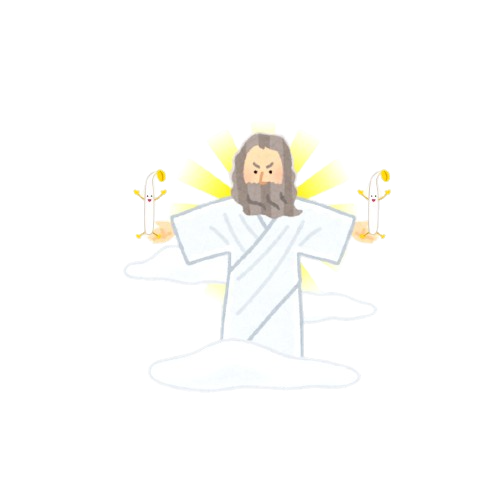
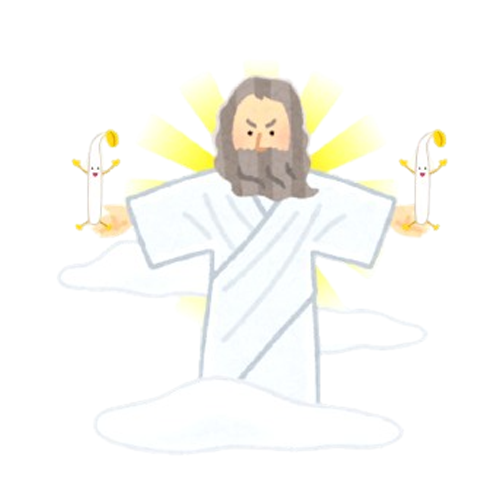
クイズページふざけた

Changed region(s): [[0.15, 0.12, 0.9, 0.81], [0.78, 0.24, 0.9, 0.36], [0.48, 0.72, 0.51, 0.78]]

diff --git a/quiz/qstart.html b/quiz/qstart.html
@@ -12,12 +12,16 @@
     <title>もやし王決定戦</title>
 </head>
 <body>
-    <div class="quiz start">
-        <h1 class="text1 mooutitle">もやし王決定戦</h1>
-        <form action="q1.php" method="post">
-            <input type="text" name="name" class="name" placeholder="名前を入力してね"><br>
-            <input type="submit" class="button" value="start">
-        </form>
-    </div>
+    <table class="quiz start">
+        <td style="width: 20%;"><img src="../img/もやしくん.gif" alt="もやっしー" style="width: 300px; height: 500px; object-fit: cover;"></td>
+        <td style="width: 60%;">
+            <h1 class="text1 mooutitle">もやし王決定戦</h1>
+            <form action="q1.php" method="post">
+                <input type="text" name="name" class="name" placeholder="名前を入力してね"><br>
+                <input type="submit" class="startbutton" value="START">
+            </form>
+        </td>
+        <td style="width: 20%;"><img src="../img/もやしくん.gif" alt="もやっしー" style="width: 300px; height: 500px; object-fit: cover;"></td>
+    </table>
 </body>
 </html>

diff --git a/css/quiz.css b/css/quiz.css
@@ -10,13 +10,21 @@ html{
     min-height: 100vh;
 }
 
+.moyassi-1{
+  position: relative;
+  margin-left: 10px;
+  margin-top: 10%;
+  /* width: 500px;
+  height: 500px; */
+}
+
 .quiz{
     text-align: center;
 }
 
 .start{
-    margin-top: 10%;
-    margin-bottom: 10%;
+    margin-top: 5%;
+    /* margin-bottom: 5%; */
 }
 
 .text1{
@@ -27,18 +35,35 @@ html{
 }
 
 .mooutitle{
+  margin-top: -20px;
   font-size: 70px;
   font-weight: bold;
 }
 
 .name{
-  width: 40%;
+  width: 60%;
   height: 50px;
   background-color: rgba(255, 255, 255, 50%);
   border-radius: 5px;
   padding-top: 3px;
   padding-bottom: 3px;
   font-size: 25px;
+}
+
+.startbutton{
+  overflow: hidden;
+  margin-top: 40px;
+  width: 30%;
+  height: 60px;
+  background-color: rgb(30, 140, 60);
+  border-radius: 50px;
+  font-size: 30px;
+  color: #fff;
+}
+
+.startbutton:hover{
+  background-color: #fff;
+  color: rgb(30, 140, 60);
 }
 
 .button{
